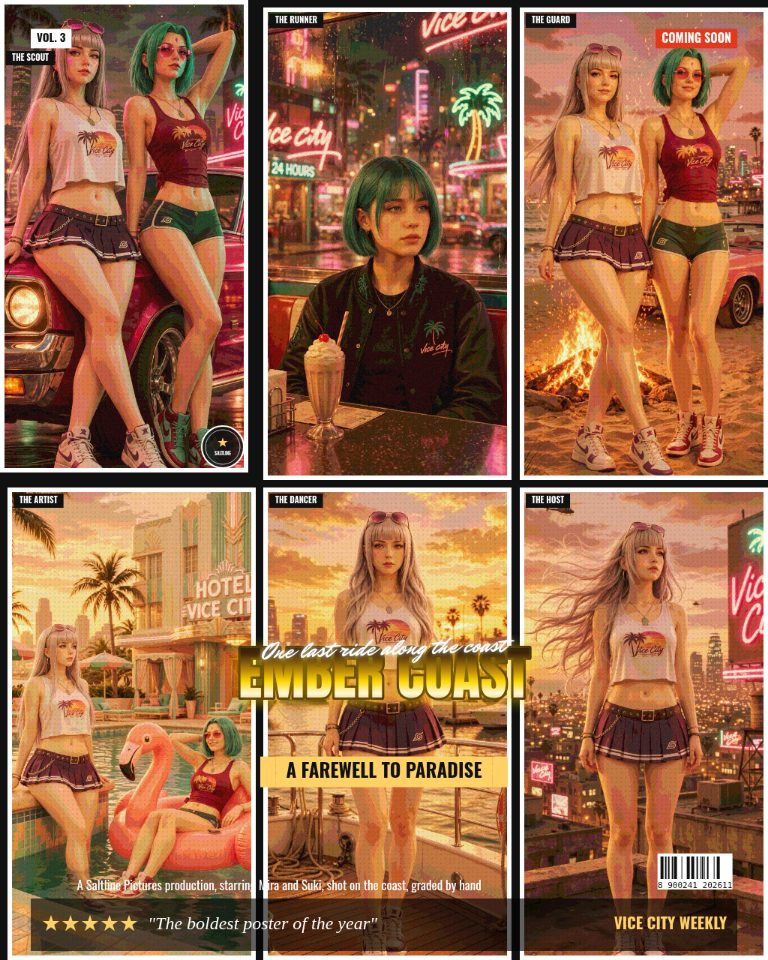
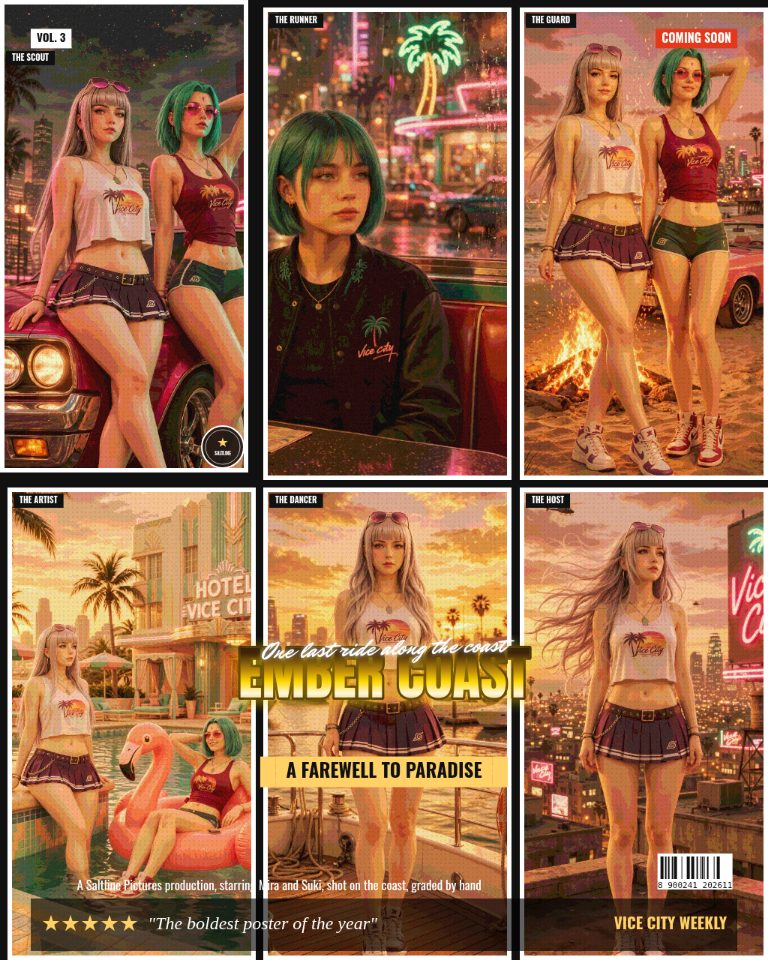
Saltline: fix scout/runner faces + text in recorded session 01a1fc36 (regen 4 photos, face-safe crops)

Changed region(s): [[0.0, 0.0, 0.6875, 0.5]]

diff --git a/app/src/shot/shot-scenes.js b/app/src/shot/shot-scenes.js
@@ -1,9 +1,11 @@
 // The four screenshot scenes. The app reads ?shot= from the URL: cover
 // scenes draw one cover full-frame (the app itself drawing it), and the
 // editor scene shows the editor with a photo loaded and a panel selected.
-// Photo indices point into SAMPLE_PHOTOS; the hero of cover 3 keeps a
-// gentler zoom (1.05) and a face mark so Suki's face never sits on the
-// panel edge.
+// Photo indices point into SAMPLE_PHOTOS. The scout and runner panels
+// keep faces whole and cut text out of frame: the scout panels pan left
+// and zoom in (the neon sign sits at the photo's right edge), and the
+// runner panels are face close-ups (zoom 1.5, panned right and down) so
+// Suki's face stays whole and both cut signs stay out of frame.
 export const SHOT_SCENES = {
   cover1: {
     id: 'cover1',
@@ -13,6 +15,12 @@ export const SHOT_SCENES = {
     titleStyle: 'auto',
     caption: 0,
     photos: [0, 1, 2, 3, 4],
+    // Scout panel pans left to keep the edge-cut neon sign out; the runner
+    // panel (behind the title) pans down so the visible strip below the
+    // title shows Suki's chin and jacket, not the cut sign.
+    panelZooms: [1.15, 1.2, 1.15, 1.15, 1.0],
+    panelPans: [[0, 0], [-1, -0.3], [0, 0], [0, 0], [0, 0.85]],
+    faceMarked: [1, 4],
   },
   editor: {
     id: 'editor',
@@ -32,7 +40,11 @@ export const SHOT_SCENES = {
     titleStyle: 'auto',
     caption: 2,
     photos: [1, 4, 8, 5, 6, 3],
-    panelZooms: [1.05, 1.15, 1.15, 1.15, 1.15, 1.15],
+    // Scout panel pans left to keep the edge-cut neon sign out; the runner
+    // panel is a face close-up (zoom 1.5, panned right and down) so Suki's
+    // face stays whole and both cut signs stay out of frame.
+    panelZooms: [1.2, 1.5, 1.15, 1.15, 1.15, 1.15],
+    panelPans: [[-1, 0], [1, 0.3], [0, 0], [0, 0], [0, 0], [0, 0]],
     faceMarked: [0],
   },
   cover4: {
@@ -43,6 +55,12 @@ export const SHOT_SCENES = {
     titleStyle: 'auto',
     caption: 3,
     photos: [2, 6, 11, 9, 15, 0, 4],
+    // Runner panel is a face close-up (zoom 1.5, panned right and down):
+    // a landscape panel on a portrait photo would otherwise show only
+    // the neon signs above Suki's face.
+    panelZooms: [1.15, 1.15, 1.15, 1.15, 1.15, 1.15, 1.5],
+    panelPans: [[0, 0], [0, 0], [0, 0], [0, 0], [0, 0], [0, 0], [1, 0.7]],
+    faceMarked: [6],
   },
 };
 
